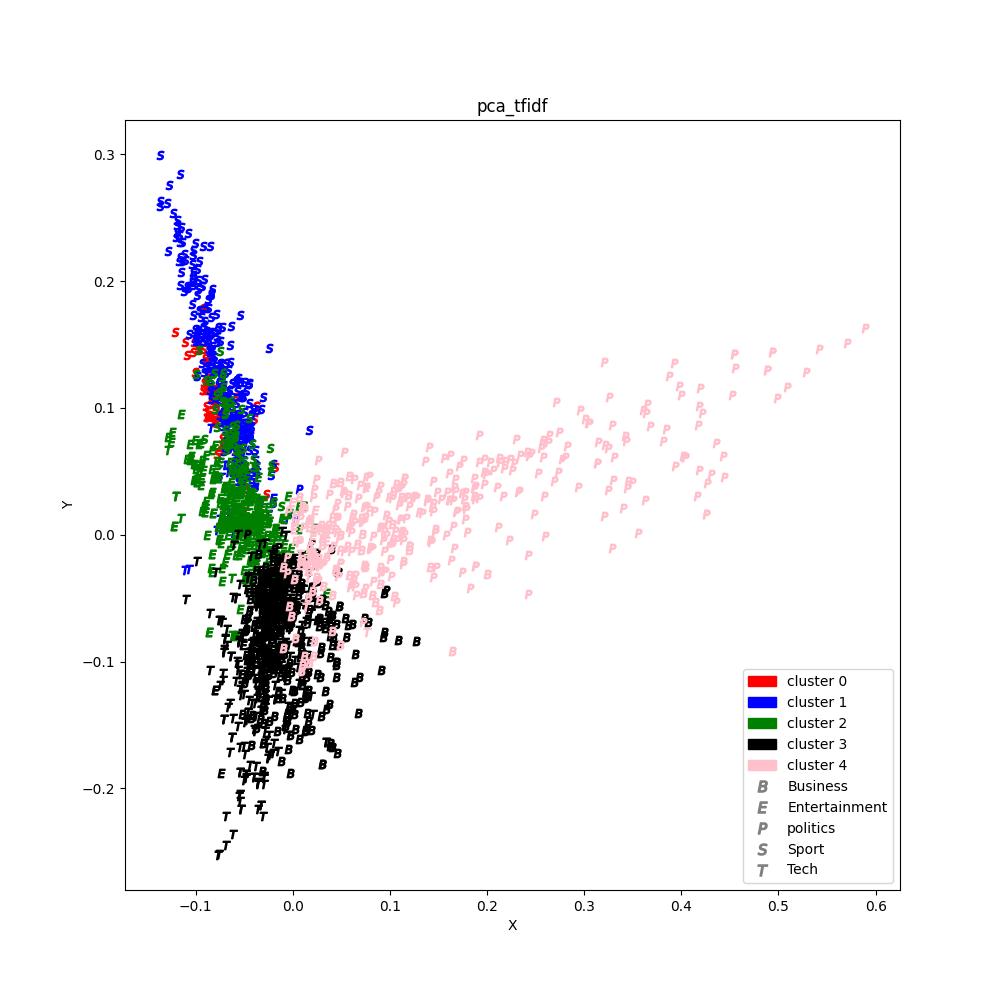
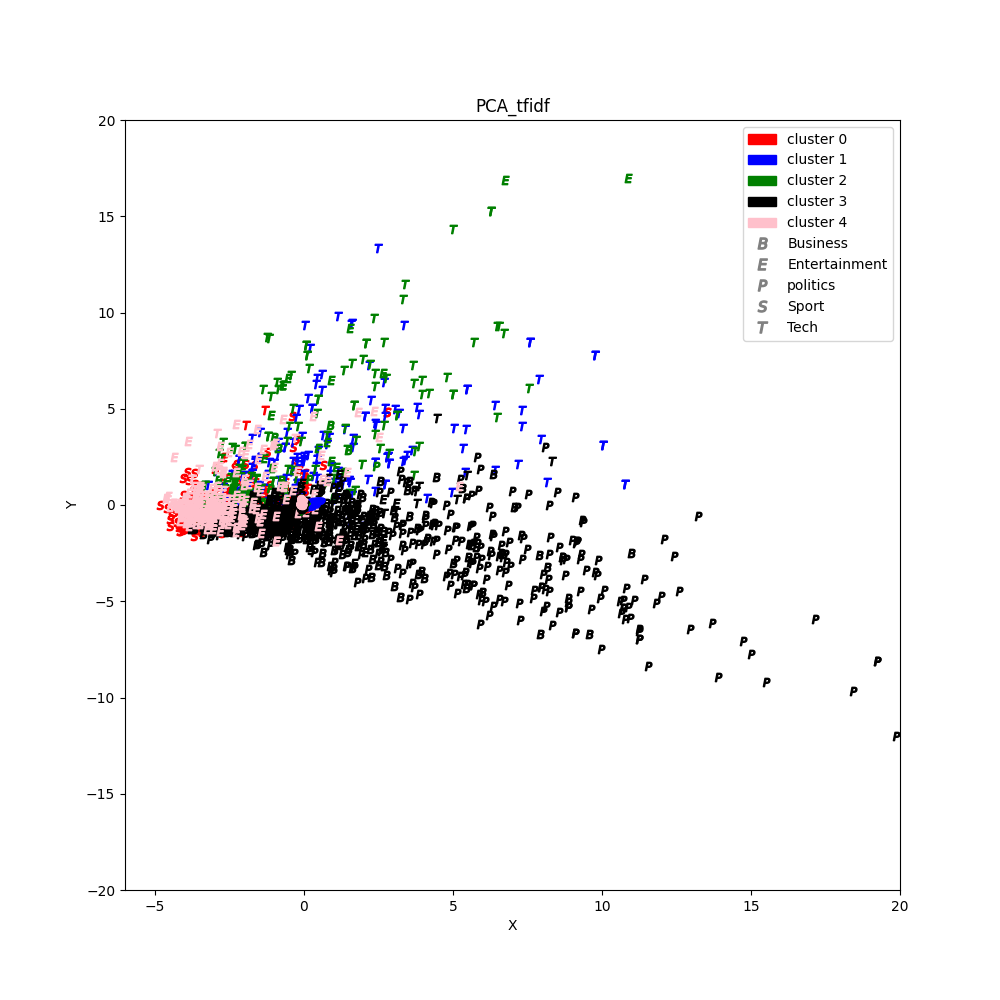
svd visualization

diff --git a/clustering.py b/clustering.py
@@ -7,7 +7,7 @@ from sklearn.metrics import accuracy_score, roc_curve, auc
 from statistics import stdev
 import matplotlib.pyplot as plt
 from nltk.cluster import KMeansClusterer, cosine_distance
-from sklearn.decomposition import PCA
+from sklearn.decomposition import PCA, TruncatedSVD
 from matplotlib.pyplot import figure
 import matplotlib.patches as mpatches
 import matplotlib.lines as mlines
@@ -83,89 +83,87 @@ def get_vectors_from_w2v(model, docs, dimension):
 		vectors.append(doc_vector)
 	return vectors
 
+def plot_PCA_data(X_train, clusters, y_train, method_name):
+	# PCA dimension reductionality 
+	transformer = PCA(random_state=2020)
+	pca_data = transformer.fit_transform(X_train)
 
-# read data
-df_train = pd.read_csv("train_set.csv", sep='\t')
-df_train['content'] = df_train['content'].str.replace('\.|\,', '', regex=True)
+	# plot PCA data
+	plt.figure(num=1, figsize=(10, 10))
+	plt.xlim([-6, 20])
+	plt.ylim([-20, 20])
+	plot_data(clusters, 5, pca_data, y_train, method_name)	
 
-# labels
-le = preprocessing.LabelEncoder()
-le.fit(df_train['category'])
-y_train = le.transform(df_train['category'])
+def plot_SVD_data(X_train, clusters, y_train, method_name):
+	# SVD dimension reductionality 
+	svd = TruncatedSVD(random_state=42)
+	svd_data = svd.fit_transform(X_train)
 
-######### document-embeddings #########
-# tokenized_tweet = df_train['content'].apply(lambda x: x.split()) # tokenizing
-# model = Word2Vec(tokenized_tweet,
-# 	size=200, # desired no. of features/independent variables
-# 	window=5, # context window size
-# 	min_count=2,
-# 	sg = 1, # 1 for skip-gram model
-# 	hs = 0,
-# 	negative = 10, # for negative sampling
-# 	workers= 2, # no.of cores
-# 	seed = 34)
+	# plot PCA data
+	plt.figure(num=1, figsize=(10, 10))
+	plt.xlim([-6, 20])
+	plt.ylim([-20, 20])
+	plot_data(clusters, 5, svd_data, y_train, method_name)	
 
-# model.train(tokenized_tweet, total_examples= df_train['content'].shape[0], epochs=20)
+if __name__ == "__main__":
+	# read data
+	df_train = pd.read_csv("train_set.csv", sep='\t')
+	df_train['content'] = df_train['content'].str.replace('\.|\,', '', regex=True)
 
-model = KeyedVectors.load_word2vec_format('../GoogleNews-vectors-negative300.bin',
-		binary=True)  
-
-# vectorization 
-vectors = get_vectors_from_w2v(model, df_train['content'], model.vector_size)
-
-# clustering
-clusterer = KMeansClusterer(5, distance=cosine_distance)
-clusters = clusterer.cluster(vectors, True)
-
-# dimension reductionality
-transformer = PCA(random_state=2020)
-pca_data = transformer.fit_transform(vectors)
-
-# plot data
-plt.figure(num=3, figsize=(10, 10))
-plot_data(clusters, 5, pca_data, y_train, 'pca_w2v')
+	# labels
+	le = preprocessing.LabelEncoder()
+	le.fit(df_train['category'])
+	y_train = le.transform(df_train['category'])
 
 
+	######### CountVectorizer #########
+	# vectorization by CountVectorizer
+	count_vectorizer = CountVectorizer(stop_words='english')
+	X_train_count = count_vectorizer.fit_transform(df_train['content'])
 
-exit()
+	# clustering
+	clusterer = KMeansClusterer(5, distance=cosine_distance)
+	clusters = clusterer.cluster(X_train_count.toarray(), True)
 
+	# plot PCA data
+	plot_PCA_data(X_train_count.toarray(), clusters, y_train, 'PCA_count')
 
-######### CountVectorizer #########
-# vectorization by CountVectorizer
-count_vectorizer = CountVectorizer(stop_words='english')
-X_train_count = count_vectorizer.fit_transform(df_train['content'])
+	# plot SVD data
+	plot_SVD_data(X_train_count, clusters, y_train, 'SVD_count')
 
-# clustering
-clusterer = KMeansClusterer(5, distance=cosine_distance)
-clusters = clusterer.cluster(X_train_count.toarray(), True)
+	exit()
 
-# dimension reductionality
-transformer = PCA(random_state=2020)
-pca_data = transformer.fit_transform(X_train_count.toarray())
+	######### TfidfVectorizer #########
+	# vectorization by TfidfVectorizer
+	tfidf_vectorizer = TfidfVectorizer(stop_words='english')
+	X_train_tfidf = tfidf_vectorizer.fit_transform(df_train['content'])
 
-# plot data
-plt.figure(num=1, figsize=(10, 10))
-plt.xlim([-6, 20])
-plt.ylim([-20, 20])
-plot_data(clusters, 5, pca_data, y_train, 'pca_count')
+	# clustering
+	clusterer = KMeansClusterer(5, distance=cosine_distance)
+	clusters = clusterer.cluster(X_train_tfidf.toarray(), True)
 
+	# plot PCA data
+	plot_PCA_data(X_train_tfidf.toarray(), clusters, y_train, 'PCA_tfidf')
 
-######### TfidfVectorizer #########
-# vectorization by TfidfVectorizer
-tfidf_vectorizer = TfidfVectorizer(stop_words='english')
-X_train_tfidf = tfidf_vectorizer.fit_transform(df_train['content'])
-
-# clustering
-clusterer = KMeansClusterer(5, distance=cosine_distance)
-clusters = clusterer.cluster(X_train_tfidf.toarray(), True)
-
-# dimension reductionality
-transformer = PCA(random_state=2020)
-pca_data = transformer.fit_transform(X_train_tfidf.toarray())
-
-# plot data
-plt.figure(num=2, figsize=(10, 10))
-plot_data(clusters, 5, pca_data, y_train, 'pca_tfidf')
+	# plot SVD data
+	plot_SVD_data(X_train_tfidf, clusters, y_train, 'SVD_tfidf')
 
 
-# print(clusterer.classify(X_test_count.toarray()))
+	######### document-embeddings #########
+	model = KeyedVectors.load_word2vec_format('../GoogleNews-vectors-negative300.bin',
+			binary=True)  
+
+	# vectorization 
+	w2v_vectors = get_vectors_from_w2v(model, df_train['content'], model.vector_size)
+
+	# clustering
+	clusterer = KMeansClusterer(5, distance=cosine_distance)
+	clusters = clusterer.cluster(w2v_vectors, True)
+
+	# plot PCA data
+	plot_PCA_data(w2v_vectors, clusters, y_train, 'PCA_w2v')
+
+	# plot SVD data
+	plot_SVD_data(w2v_vectors, clusters, y_train, 'SVD_w2v')
+
+	# print(clusterer.classify(X_test_count.toarray()))
